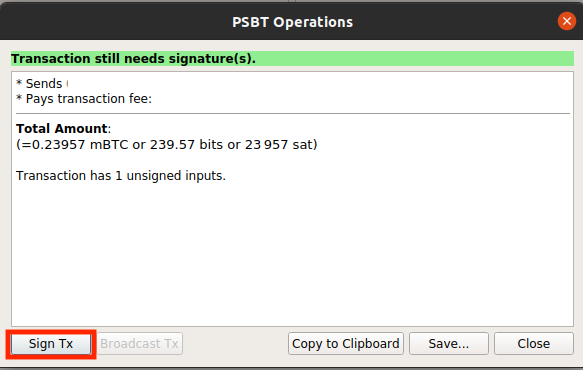
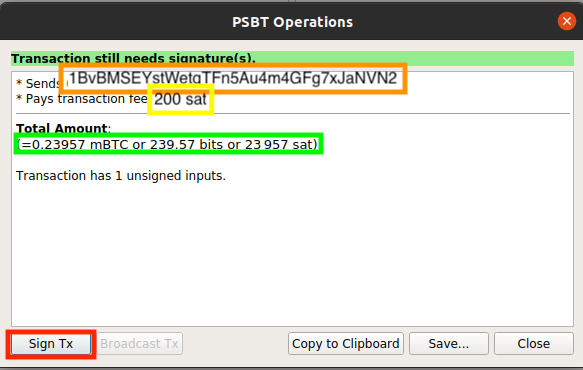
update guide to prevent secondary laptop from updating the PSBT

Changed region(s): [[0.0926, 0.1486, 0.7101, 0.327], [0.0, 0.3568, 0.5557, 0.4162]]

diff --git a/src/components/CWG.vue b/src/components/CWG.vue
@@ -140,8 +140,9 @@
       </div> 
       <div class="card my-5" style="width: 50%;">
         <div class="card-body">
-          <h3>Step 16: Sign the PSBT</h3> 
-          <p class="card-text">Click <b>Sign Tx</b>.</p>
+          <h3>Step 16: Verify and Sign the PSBT</h3> 
+          <p class="card-text">Verify that address (outlined in orange), the amount (Outlined in green), and the transaction fee (outlined in yellow) are all the correct values before clicking <b>Sign Tx</b>.</p>
+          <p class="card-text">It is important to verify the values stated above as this is a very common attack to change one or two characters of the address.</p>
         </div>
         <img class="card-img-top" src="@/assets/Send12.png" alt="Card image cap">
       </div> 
